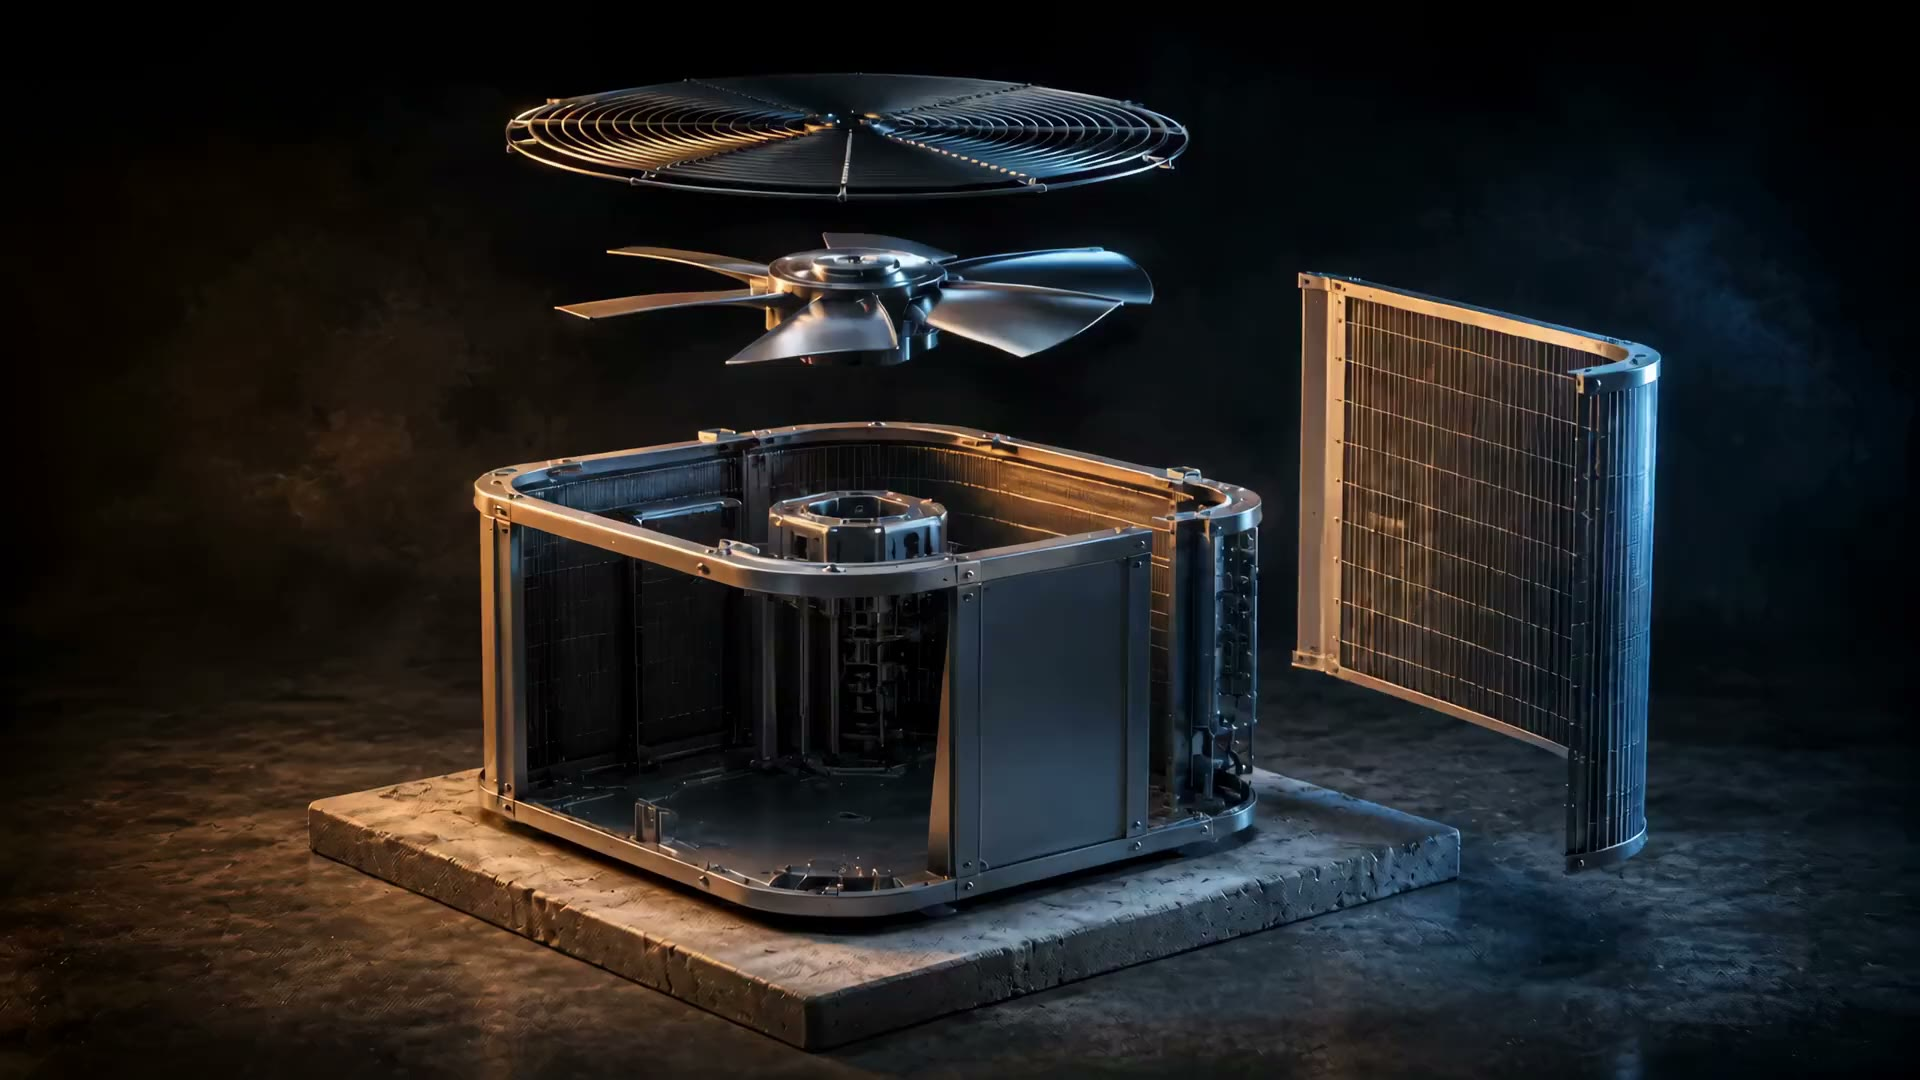
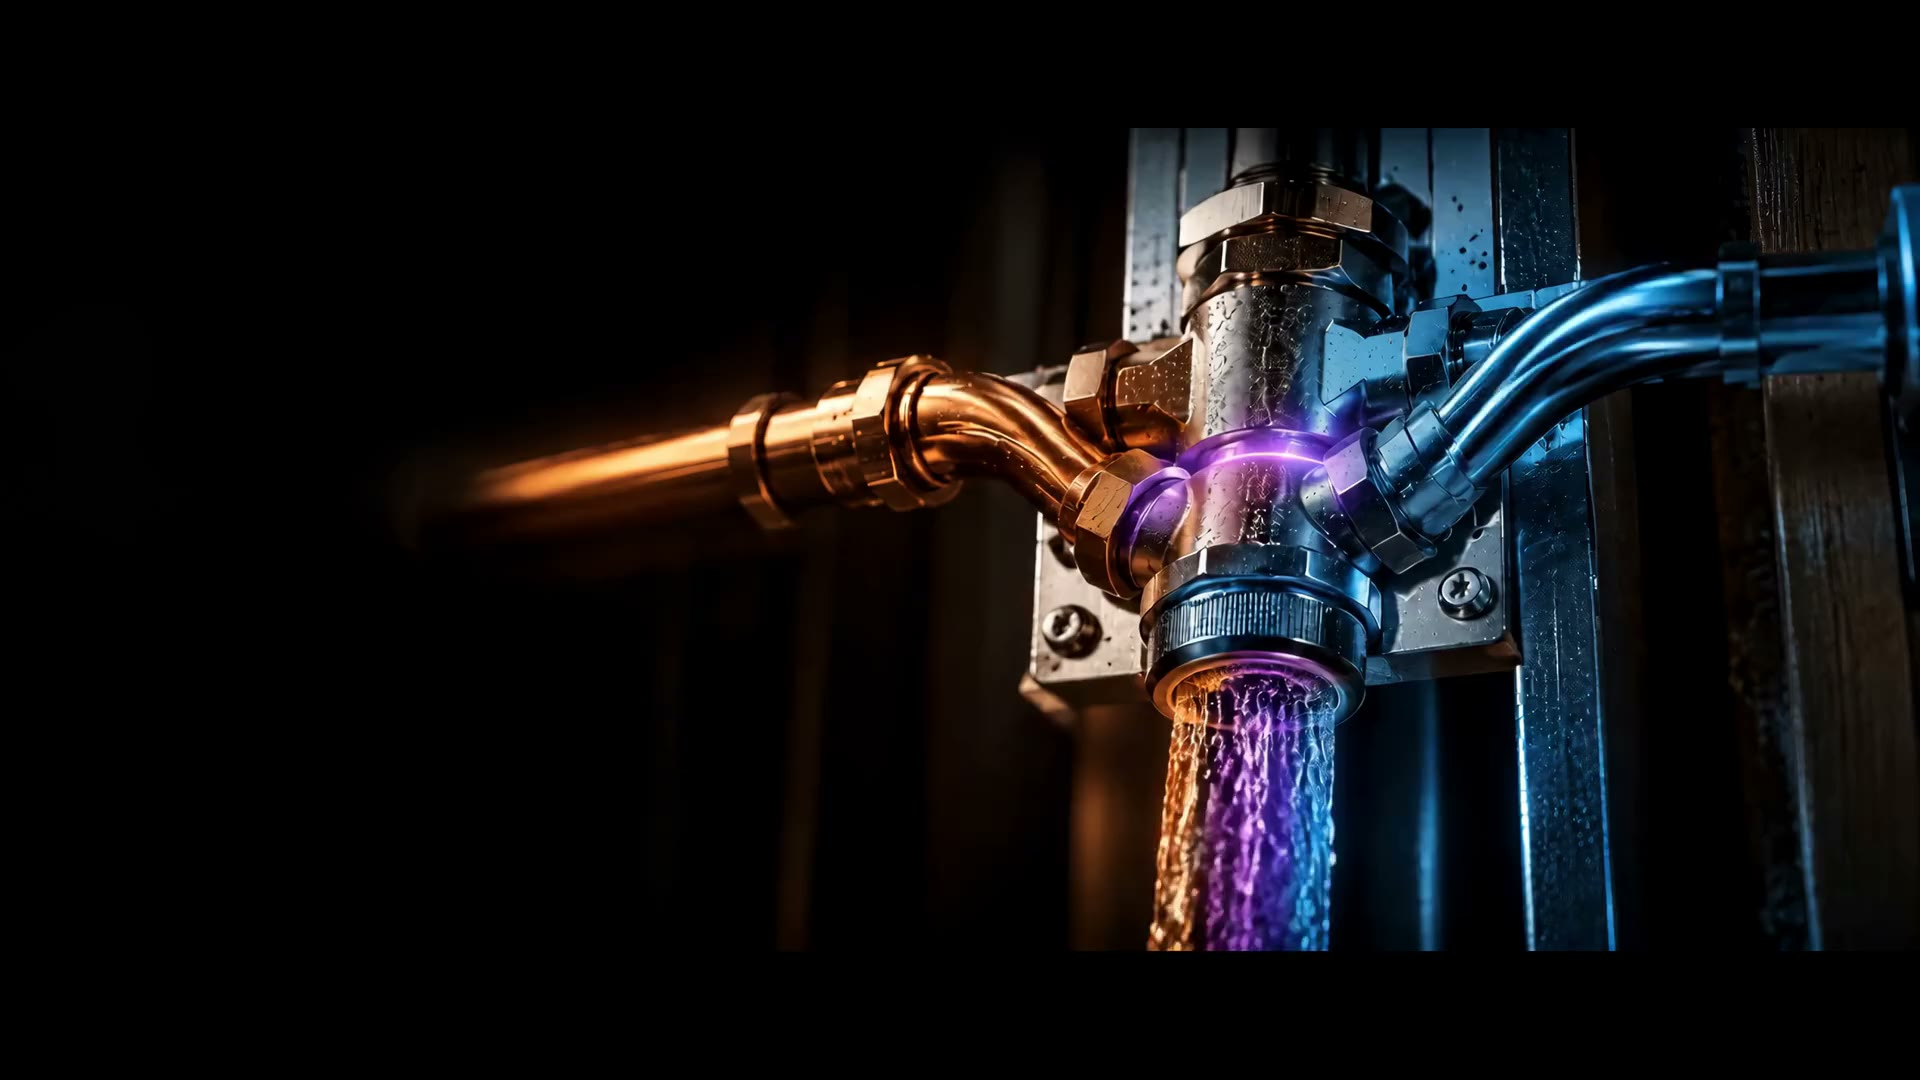
feat: plumbing hero video (replaces HVAC loop)
New hero: hot copper line + cold blue line converging at a chrome valve,
plum glow at the union, water streaming — the brand's "where hot meets
cold" signature, now literally hot+cold supply lines. Generated via
Seedance from the GPT Image 2 keyframe, upscaled to 4K, then:
- seamless-loop close (0.7s tail->head crossfade; steady-state so the
  seam is invisible)
- 4K -> 1080p H.264, CRF25, faststart, no audio (731KB)
- poster pulled from frame 1 (no playback blink)

Overwrites public/plum-crazy-hero-web.mp4 + plum-crazy-hero-poster.jpg
(filenames unchanged, no code edit). 4K master kept in the client assets
folder. PLACEHOLDERS hero item checked off.

diff --git a/PLACEHOLDERS.md b/PLACEHOLDERS.md
@@ -34,7 +34,7 @@ All placeholder values live at the **top of `app/page.tsx`** in one block, plus 
 
 ## Added 2026-06-13 (HVAC → PLUMBING pivot)
 - [x] **Logo** — new plumbing logo `/plumb-crazy-logo.png` wired into nav, footer, and About (Weimaraner + pipe wrench + "PLUMBING SOLUTIONS"). Old `/plumb-crazy-badge.png` (thermostat) retired. ⚠️ logo art bakes in **"NV LICENSE #0000"** (placeholder) and the "DANTE" collar tag — re-render with the real license number before launch
-- [ ] **Hero video** — `/plum-crazy-hero-web.mp4` + poster are HVAC visuals; regenerate a plumbing hero (water / pipe / jetting / leak imagery). Until then the existing loop stands in
+- [x] **Hero video** — DONE 2026-06-13: new plumbing hero (hot+cold copper/blue lines converging at a chrome valve, plum bloom, water streaming). Seedance loop → 4K master upscaled → ffmpeg seamless-loop close (0.7s tail→head crossfade) + 4K→1080p H.264 (731KB) + poster from frame 1. `/plum-crazy-hero-web.mp4` + `/plum-crazy-hero-poster.jpg` swapped. Master `Clients\Plum crazy\Videos\hero 4k.mp4`
 - [ ] **Project photos are HVAC stand-ins** — `/projects/*.jpg` show a condenser, RTU, ductwork; captions are now plumbing but the *images* must be swapped for real plumbing jobs (repipe, tankless, sewer dig, rough-in)
 - [ ] **Under-slab leak 3D centerpiece** — phase 2 build (R3F): cutaway of a home's pipe network with a glowing slab leak, dramatizing leak detection (the Vegas angle)
 - [ ] **Trust strip** — add Rooter-Hero-style strip (★ rating · Licensed/Bonded/Insured · No after-hours fees) once real numbers exist